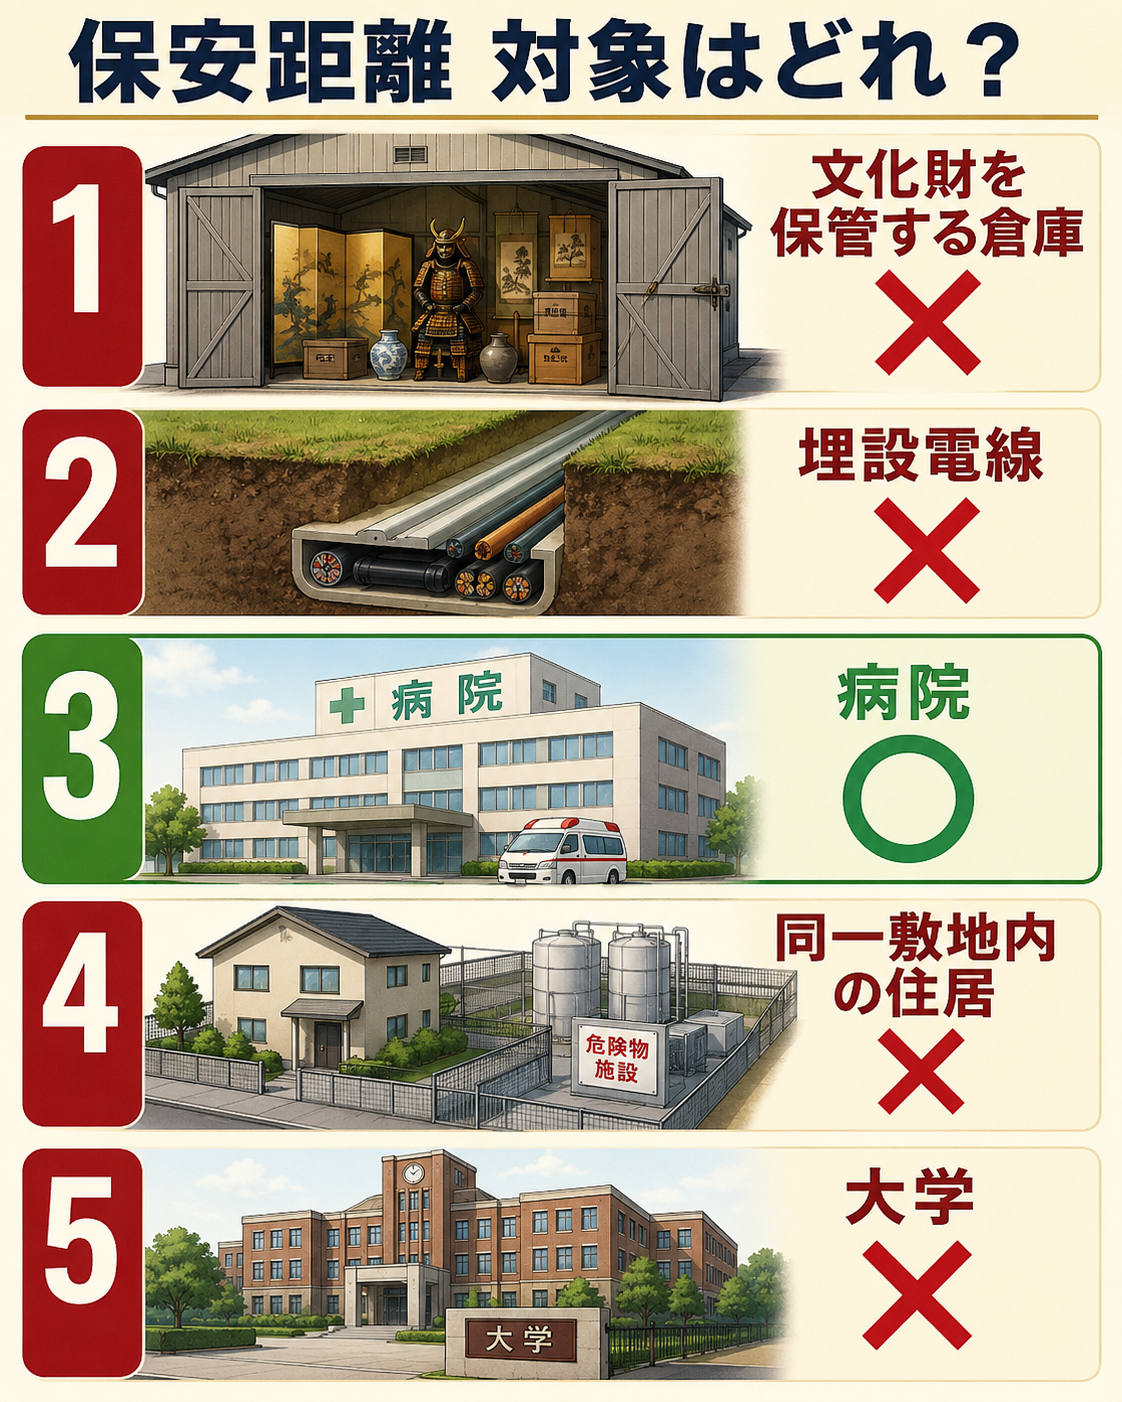
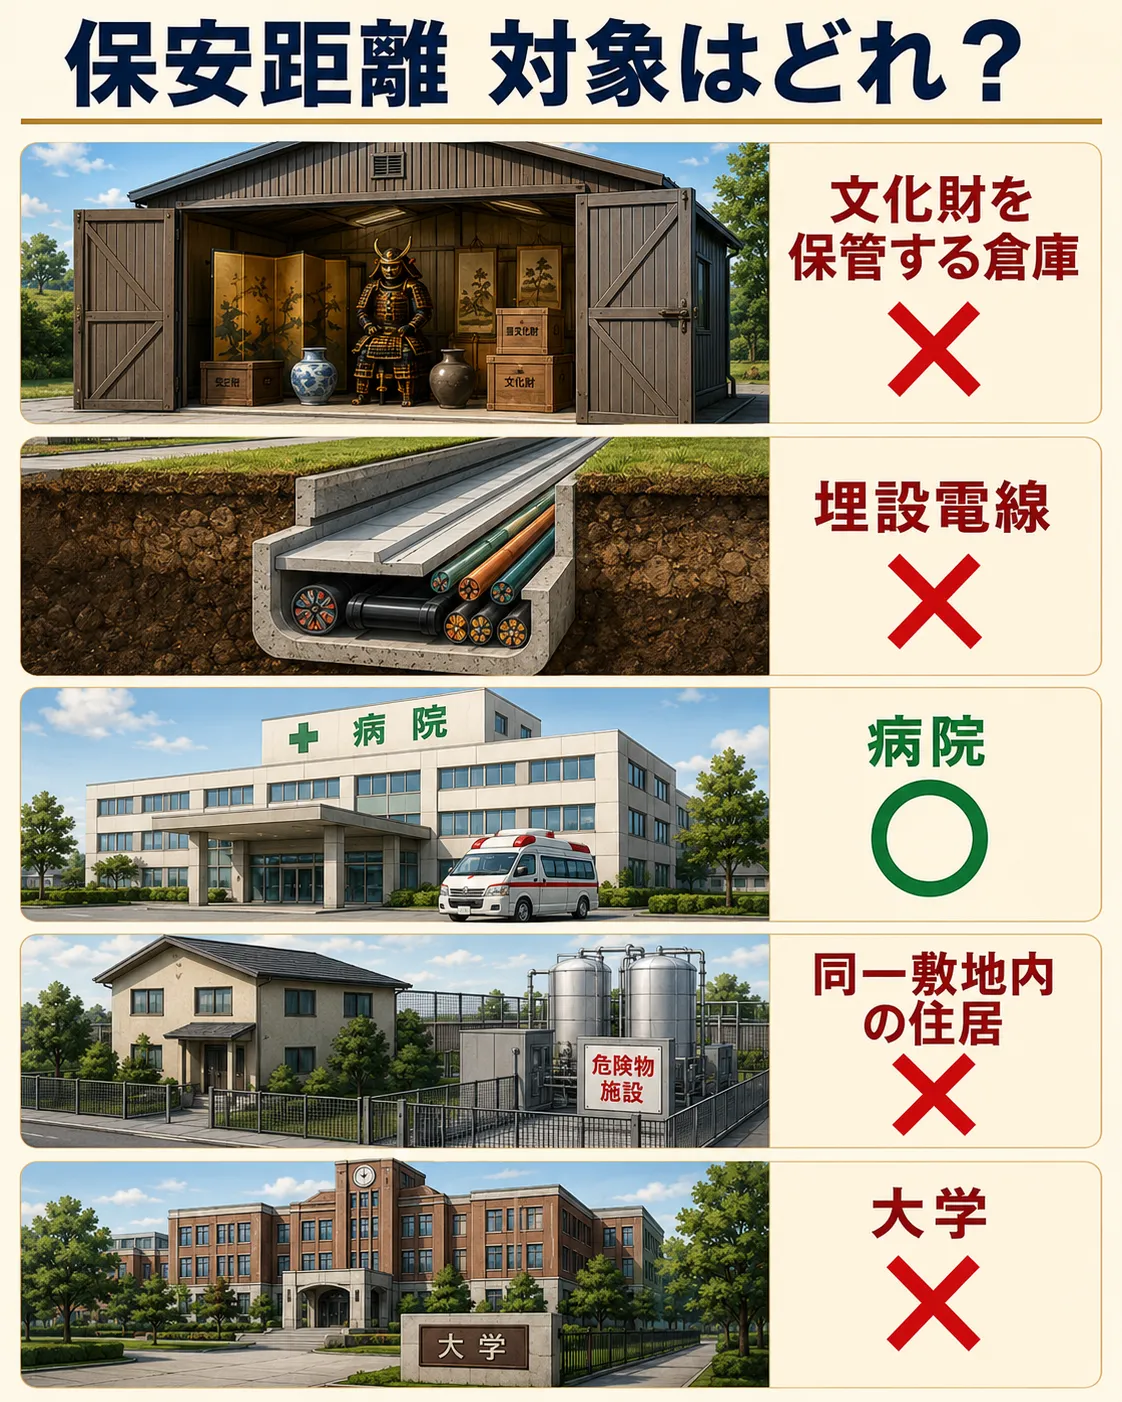
fix: refine safety distance visual and label

diff --git a/data/explanation_meta_pilot_law_v1.ts b/data/explanation_meta_pilot_law_v1.ts
@@ -138,7 +138,7 @@ export const explanationMetaPilotLawV1: ExplanationMetaMap = {
       aspectRatio: '4:5',
       caption: '',
     },
-    supplementalImageLabel: '保安距離表を見る',
+    supplementalImageLabel: '保安距離画像を見る',
     shortExplanation:
       '保安距離は、名称の似た施設ではなく、法令が指定する対象範囲で切り分けます。架空か埋設か、敷地外か同一敷地内か、学校の範囲はどこまでかを条件まで確認します。',
     facilityItems: [
